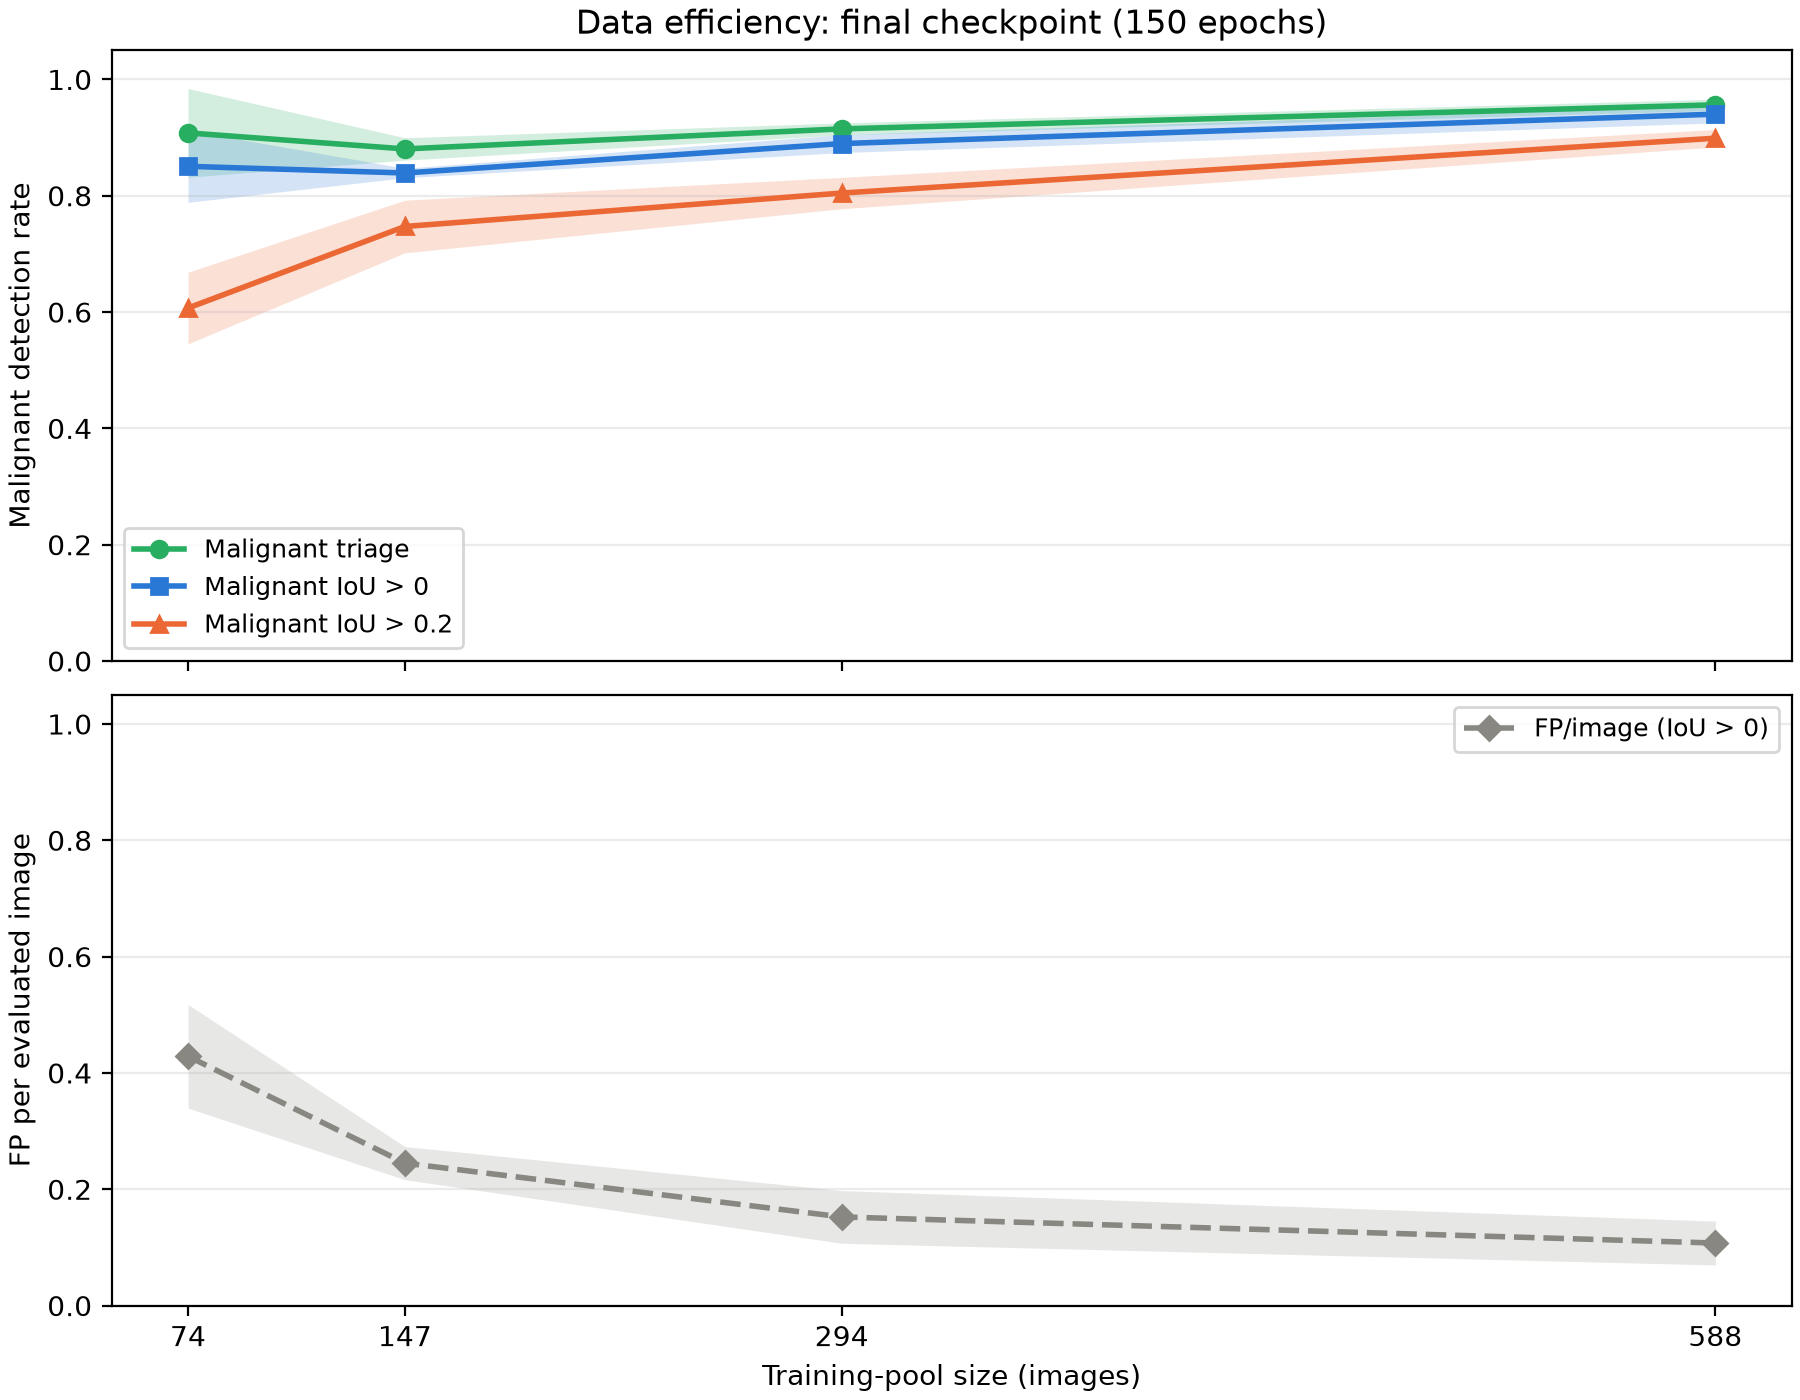
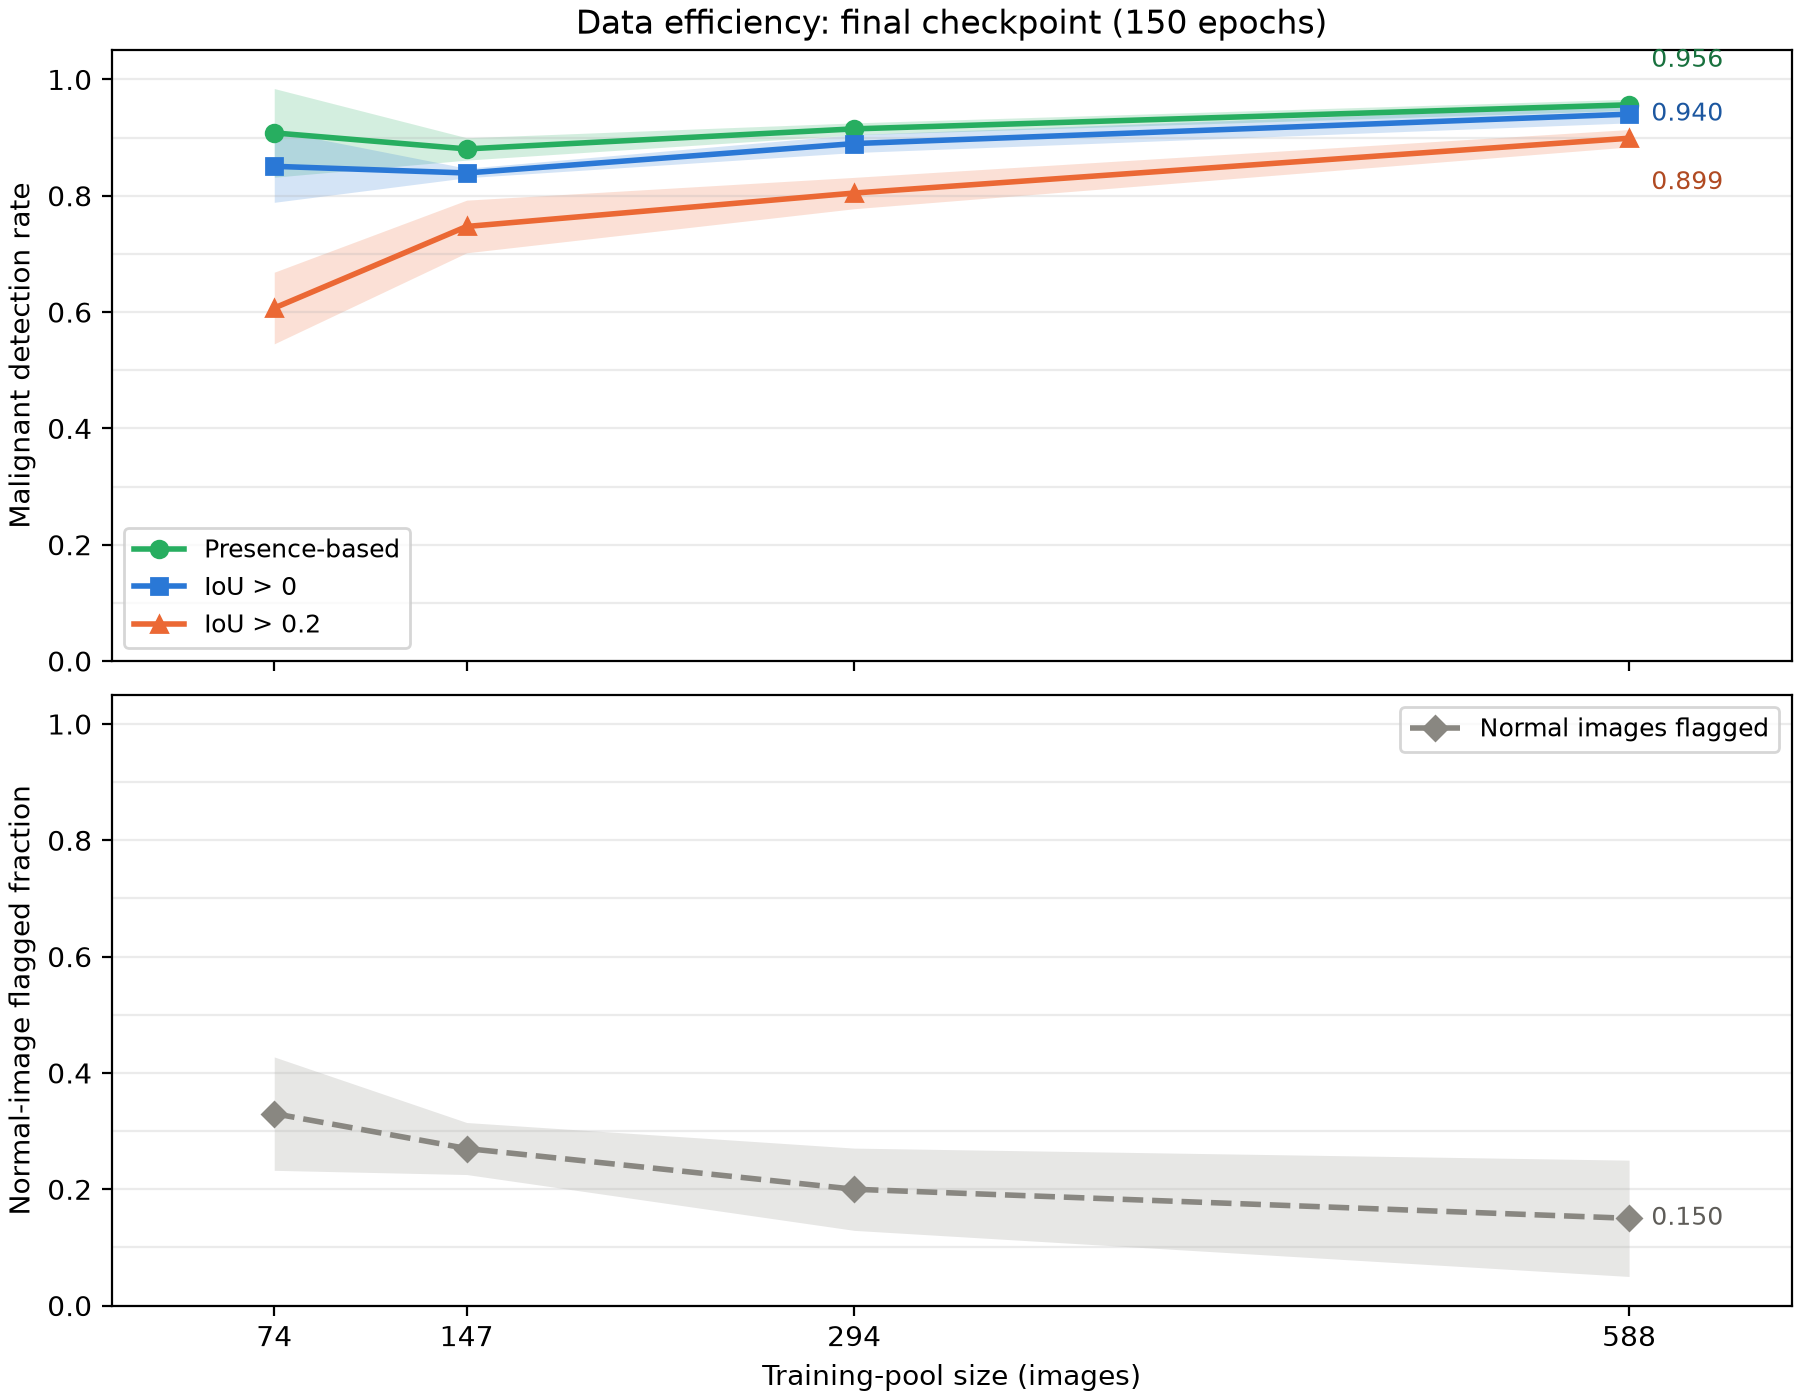
Refined data efficiency analysis

diff --git a/analysis/02_data_efficiency/data_efficiency_report/data_efficiency_report.py b/analysis/02_data_efficiency/data_efficiency_report/data_efficiency_report.py
@@ -15,11 +15,11 @@ rates = importlib.import_module("analysis.02_data_efficiency.detection_rates.det
 HERE = Path(__file__).resolve().parent
 CHECKPOINTS = ["epoch5", "epoch25", "epoch75", "epoch100", "epoch125", "final", "best"]
 SERIES = [
-    ("Malignant triage", "triage_detection_flag", "#27ae60", "o", "-"),
-    ("Malignant IoU > 0", "overlap_detection_iou_00_flag", "#2a78d6", "s", "-"),
-    ("Malignant IoU > 0.2", "overlap_detection_iou_02_flag", "#eb6834", "^", "-"),
+    ("Presence-based", "triage_detection_flag", "#27ae60", "o", "-"),
+    ("IoU > 0", "overlap_detection_iou_00_flag", "#2a78d6", "s", "-"),
+    ("IoU > 0.2", "overlap_detection_iou_02_flag", "#eb6834", "^", "-"),
     ("FP/image (IoU > 0)", "overlap_detection_iou_00_fp_count", "#898781", "D", "--"),
-    ("Normal-image flagged fraction", "triage_detection_flag", "#898781", "D", "--"),
+    ("Normal images flagged", "triage_detection_flag", "#898781", "D", "--"),
 ]
 
 
@@ -83,10 +83,22 @@ def charts(results):
     final = [results["final", size] for size in rates.SIZES]
     fig, axes = plt.subplots(2, 1, figsize=(9, 7), sharex=True, layout="constrained")
     curves(axes[0], rates.SIZES, final, range(3))
-    curves(axes[1], rates.SIZES, final, [3])
+    curves(axes[1], rates.SIZES, final, [4])
     axes[0].set(ylabel="Malignant detection rate", ylim=(0, 1.05), title="Data efficiency: final checkpoint (150 epochs)")
-    axes[1].set(ylabel="FP per evaluated image", xlabel="Training-pool size (images)", ylim=(0, 1.05))
+    axes[1].set(ylabel="Normal-image flagged fraction", xlabel="Training-pool size (images)", ylim=(0, 1.05))
+    endpoint_text_colors = {0: "#18713e", 1: "#1c57a0", 2: "#b04a22", 4: "#5e5c58"}
+    for ax, indices, offsets in ((axes[0], range(3), [16, 0, -16]),
+                                 (axes[1], [4], [0])):
+        for index, offset in zip(indices, offsets):
+            mean = final[-1]["stats"][index][0]
+            ax.annotate(f"{mean:.3f}", (rates.SIZES[-1], mean),
+                        xytext=(8, offset), textcoords="offset points",
+                        color=endpoint_text_colors[index], va="center", fontsize=9)
+        ax.margins(x=.12)
     for ax in axes:
+        ax.set_yticks([.1, .3, .5, .7, .9], minor=True)
+        ax.tick_params(axis="y", which="minor", left=False, labelleft=False)
+        ax.grid(axis="y", which="minor", alpha=.25)
         ax.legend(fontsize=9)
     fig.savefig(HERE / "data_efficiency_report.png", dpi=200)
     plt.close(fig)
